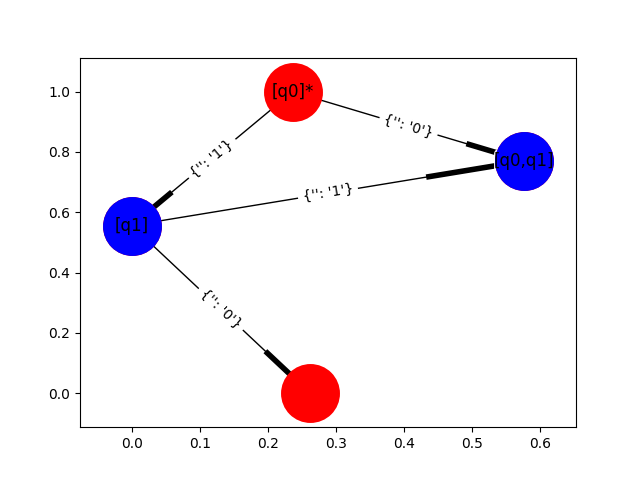
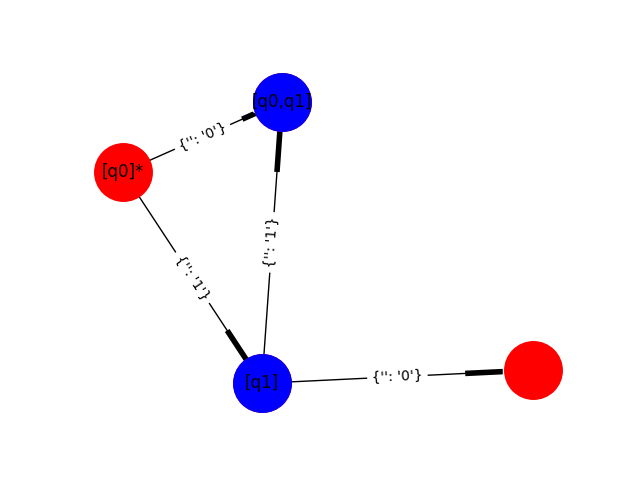
:rocket: Change plotting library to igraph

diff --git a/matescomputacionales/project03/main.py b/matescomputacionales/project03/main.py
@@ -1,8 +1,7 @@
 import sys
 import transform as t
 from matescomputacionales.datastructures.set import Set
-import networkx as nx
-import matplotlib.pyplot as plt
+import igraph as ig
 
 inputFileName = sys.argv[1]
 stringsInFileName = sys.argv[1].split('.')
@@ -50,22 +49,25 @@ for s in dfaDelta:
 
 outFile.close()
 
-G = nx.DiGraph()
-G.add_nodes_from(map(lambda x: x + '*' if x == dfaInitialState else x, dfaStates))
+g = ig.Graph(directed=True)
 
+edgeLabels = []
+g.add_vertices(map(lambda x: x + '*' if x == dfaInitialState else x, dfaStates))
 for node, destinations in dfaDelta.iteritems():
     for weight, destination in dfaDelta[node].iteritems():
-        node = node + '*' if node == dfaInitialState else node
-        destination = destination + '8' if node == dfaInitialState else destination
-        G.add_edge(node, destination, {'':weight})
+        if (node != destination):
+            node = node + '*' if node == dfaInitialState else node
+            destination = destination + '*' if node == dfaInitialState else destination
+            g.add_edge(node, destination)
+            edgeLabels.append(weight)
 
-pos = nx.spring_layout(G)
-nx.draw_networkx_nodes(G, pos, node_size=1800)
-nx.draw_networkx_edges(G, pos)
-nx.draw_networkx_labels(G, pos)
-nx.draw_networkx_edge_labels(G, pos)
-G = nx.DiGraph()
-G.add_nodes_from(dfaFinalStates)
-nx.draw_networkx_nodes(G, pos, node_size=1800, node_color='b')
+layout = g.layout("kk")
 
-plt.savefig(inputFileName.split('.')[0] + "_solution.png")
+plotProperties = {}
+plotProperties["vertex_size"] = 40
+plotProperties["vertex_color"] = map(lambda x: 'light blue' if x.replace('*', '') in dfaFinalStates else 'pink', g.vs['name'])
+plotProperties["vertex_label"] = g.vs["name"]
+g.es["label"] = edgeLabels
+plotProperties["edge_label_dist"] = 10
+plotProperties["margin"] = 80
+ig.plot(g, 'a.png', layout=layout, **plotProperties)

diff --git a/setup.py b/setup.py
@@ -10,7 +10,7 @@ config = {
     'download_url': 'https://github.com/gerardogtn/matematicascomputacionales',
     'author_email': 'gerardogtn@gmail.com',
     'version': '0.1',
-    'install_requires': ['pytest', 'networkx', 'matplotlib'],
+    'install_requires': ['pytest', 'igraph'],
     'packages': find_packages(exclude=('tests', 'docs', 'bin')),
     'scripts': [],
     'name': 'Matematicas computacionales'
